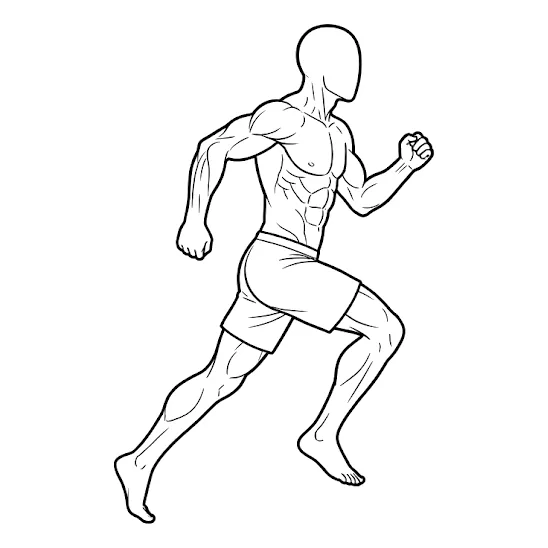
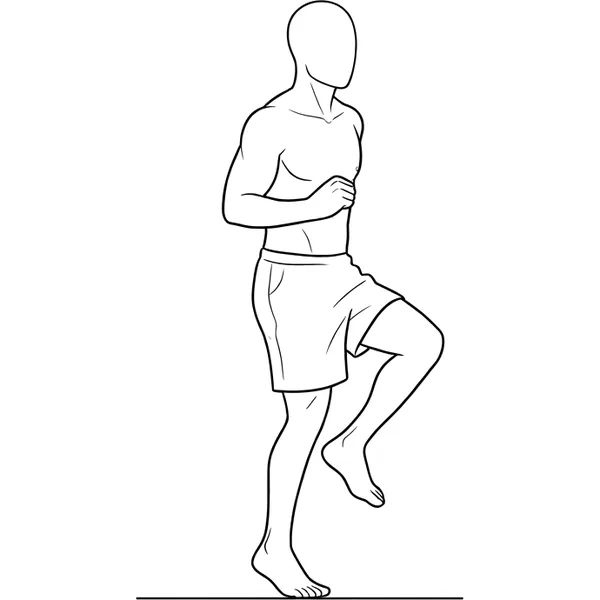
0.60.28: soleo con las dos rodillas dobladas y los talones apoyados, dominadas supinas por detras, mountain climbers en tres posturas y carrera que alterna rodillas

Changed region(s): [[0.2172, 0.0, 0.8066, 0.9617], [0.2172, 0.9307, 0.7755, 1.0], [0.1861, 0.8376, 0.2172, 0.8686]]

diff --git a/web/sw.js b/web/sw.js
@@ -7,12 +7,12 @@
 // Solo se ocupa del CÓDIGO de la app. Los datos del usuario nunca pasan por
 // aquí: viven en el dispositivo (IndexedDB) y en su Google Drive.
 
-const VERSION = '0.60.27';
+const VERSION = '0.60.28';
 const CACHE = `entreno-${VERSION}`;
 // Las imágenes van en un almacén aparte que NO se borra al actualizar la app:
 // así se ven sin conexión aunque haya salido una versión nueva.
 // Si cambian las imágenes, se sube el número y los móviles bajan las nuevas.
-const CACHE_IMAGENES = 'entreno-imagenes-36';  // el mismo nombre en app.js (guardarImagenesParaSinConexion)
+const CACHE_IMAGENES = 'entreno-imagenes-37';  // el mismo nombre en app.js (guardarImagenesParaSinConexion)
 
 const ARCHIVOS = [
   './',

diff --git a/web/js/app.js b/web/js/app.js
@@ -236,7 +236,7 @@ async function guardarImagenesParaSinConexion() {
     const capas = Object.entries(MUSCULOS).flatMap(([clave, m]) => m.vistas.map((v) => archivoCapa(clave, v)));
     const cuerpo = ['imagenes/musculos/cuerpo-delante.svg', 'imagenes/musculos/cuerpo-detras.svg'];
     // El mismo nombre que CACHE_IMAGENES en sw.js: si no, el service worker lo borra.
-    const cache = await caches.open('entreno-imagenes-36');
+    const cache = await caches.open('entreno-imagenes-37');
     for (const ruta of [...cuerpo, ...capas, ...mios]) {
       if (!(await cache.match(ruta, { ignoreSearch: true }))) {
         const r = await fetch(ruta).catch(() => null);

diff --git a/web/js/version.js b/web/js/version.js
@@ -1,3 +1,3 @@
 // Versión del código de la app. Se sube en cada publicación y debe coincidir
 // con VERSION en sw.js, que es lo que hace que los móviles se actualicen.
-export const VERSION_APP = '0.60.27';
+export const VERSION_APP = '0.60.28';

diff --git a/herramientas/imagenes_ia.py b/herramientas/imagenes_ia.py
@@ -245,25 +245,22 @@ def animar_mismo_lienzo(a, b, salida, tope=600, margen=24):
 
 
 def partir_en_tres(im):
-    """Tres figuras en fila: corta por los dos huecos en blanco más anchos (uno en cada mitad)."""
-    tinta = mascara(im, 200)
-    ancho, alto = tinta.size
-    columnas = [sum(1 for y in range(0, alto, 2) if tinta.getpixel((x, y))) for x in range(ancho)]
-
-    def hueco(desde, hasta):
-        mejor, inicio, tramo = 0, None, (desde + hasta) // 2
-        for x in range(desde, hasta):
-            if columnas[x] <= 1:
-                inicio = x if inicio is None else inicio
-                if x - inicio > mejor:
-                    mejor, tramo = x - inicio, (inicio + x) // 2
-            else:
-                inicio = None
-        return tramo
-
-    c1 = hueco(int(ancho * 0.15), int(ancho * 0.5))
-    c2 = hueco(int(ancho * 0.5), int(ancho * 0.85))
-    return im.crop((0, 0, c1, alto)), im.crop((c1, 0, c2, alto)), im.crop((c2, 0, ancho, alto))
+    """Tres figuras en fila. La IA las junta tanto que la cabeza de una queda encima de los pies de la siguiente
+    (no hay columna en blanco): se separan por manchas de trazo unidas y cada figura sale sola, sobre blanco."""
+    import numpy as np
+    from scipy import ndimage
+    tinta = np.array(im.convert("L")) < 200
+    unida = ndimage.binary_dilation(tinta, iterations=3)
+    etiquetas, n = ndimage.label(unida)
+    tamanos = ndimage.sum(unida, etiquetas, range(1, n + 1))
+    mayores = sorted(np.argsort(tamanos)[-3:] + 1, key=lambda e: ndimage.center_of_mass(unida, etiquetas, e)[1])
+    partes = []
+    for e in mayores:
+        dentro = etiquetas == e
+        sola = np.where(dentro, np.array(im.convert("RGB")).transpose(2, 0, 1), 255).transpose(1, 2, 0).astype("uint8")
+        ys, xs = np.nonzero(dentro)
+        partes.append(Image.fromarray(sola).crop((xs.min(), ys.min(), xs.max() + 1, ys.max() + 1)))
+    return partes
 
 
 def procesar(origen, modo="pies", espejo=False, solo=False, invertir=False, mover=None, escala=None, recorte=None, grosor=None):

diff --git a/imagenes-ia/cola.md b/imagenes-ia/cola.md
@@ -145,9 +145,11 @@ petición (el pez levantaba la cabeza; la goblet sale «de huevo», que lo decid
       multipower (pies y listón), tríceps en máquina (agarre y placas), curl en polea (cable), elevación de gemelos
       (que suba más), sóleo y supinas (Gemini no sabe; probar con ChatGPT).
       0.60.27: hechos gemelos sentado, sentadilla en multipower, elevación de gemelos (sube más). Quedan: gemelos en
-      multipower, sóleo, supinas.
+      multipower, sóleo, supinas. 0.60.28: sóleo y supinas hechos. Solo queda gemelos en multipower.
 ## 5. Animaciones (lo último)
 - [ ] Mountain climbers y carrera (3 imágenes), elíptica (cada mano en su palanca), escalera, zancadas (las dos),
       cabeza a la rodilla (meter la cabeza), sobre la cabeza (alternar las dos perspectivas cada 2 s).
       0.60.27: hechos cabeza a la rodilla y sobre la cabeza. Para correr hay `tres-<nombre>` en imagenes_ia.py, pero
       Gemini pinta la primera y la tercera figura iguales (no alterna piernas): probar con ChatGPT.
+      0.60.28: mountain climbers en tres posturas hecho con una lámina de modelo (las dos posturas alternas de la lámina
+      y una plancha en medio). Para la carrera, probar igual: lámina con las dos zancadas.

diff --git a/CLAUDE.md b/CLAUDE.md
@@ -1222,4 +1222,8 @@ fase), tras probar la A.
   alterna vista de frente y de lado cada 2 s (`duracion` en peticiones.json); cabeza a la rodilla con la frente en la rodilla.
   Preparado `tres-<nombre>` (tres figuras animadas 1-2-3-2) para correr y escalador, pero Gemini dibuja la 1 y la 3 iguales.
   Almacén `entreno-imagenes-36`.
+- 0.60.28: sóleo en pared por fin con las dos rodillas dobladas y los talones apoyados (lámina de modelo; deja de usarse el
+  muñeco), dominadas supinas por detrás como las pronas y mountain climbers en tres posturas (`tres-`, ahora
+  separadas por manchas de trazo con scipy: la IA las junta tanto que no hay columna en blanco) y carrera que alterna
+  rodillas (lámina de modelo). Almacén `entreno-imagenes-37`.
 
